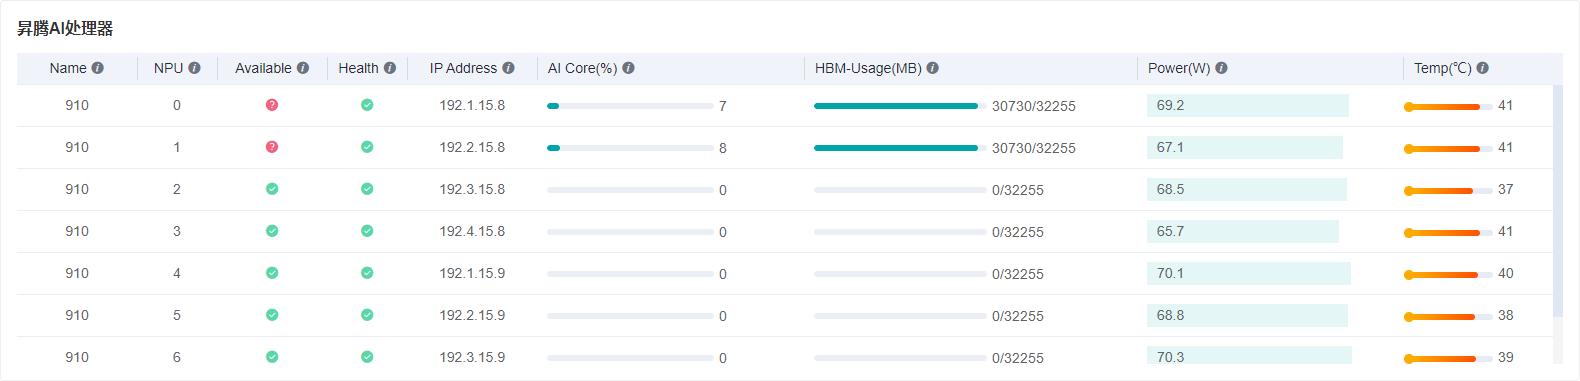
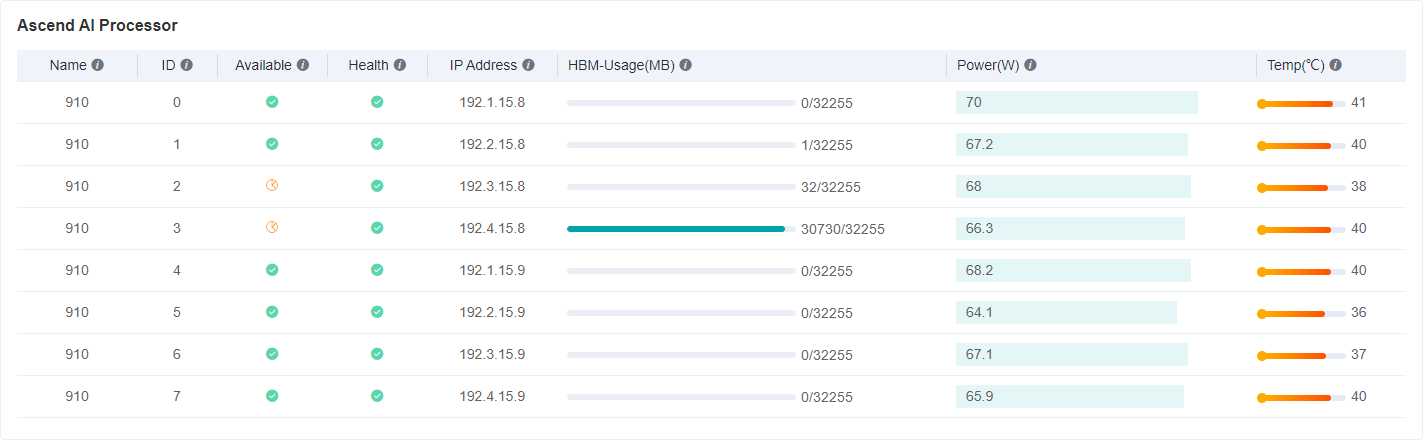
remove AI Core and update images

diff --git a/tutorials/source_zh_cn/advanced_use/system_metrics.md b/tutorials/source_zh_cn/advanced_use/system_metrics.md
@@ -27,15 +27,14 @@
 
 图1是一个表格，每一行展示了某一时刻各芯片的信息。其中每一列的指标如下：
 
-- **Name**: 芯片名称。
-- **NPU**: 芯片号，从`0`到`7`.
-- **Available**: 芯片是否空闲。
-- **Health**: 芯片健康指数。
-- **IP Address**: 芯片IP地址。
-- **AI Core(%)**: 芯片利用率。
-- **HBM-Usage(MB)**: 芯片已用的HBM内存。
-- **Power(W)**: 芯片功率。
-- **Temp(°C)**: 芯片温度。
+- **名称**: 芯片名称。
+- **编号**: 芯片编号，从`0`到`7`.
+- **是否空闲**: 芯片是否空闲。
+- **健康状态**: 芯片健康指数。
+- **IP地址**: 芯片IP地址。
+- **已用HBM内存(MB)**: 芯片已用的HBM内存。
+- **功率(W)**: 芯片功率。
+- **温度(°C)**: 芯片温度。
 
 > 目前芯片是否空闲的结果仅供参考。
 

diff --git a/tutorials/source_en/advanced_use/system_metrics.md b/tutorials/source_en/advanced_use/system_metrics.md
@@ -29,11 +29,10 @@ Figure 1: System metrics Ascend AI processor board
 Figure 1 is a table, each row shows the information of each NPU chip at a certain time. The metrics in each column are as follows:
 
 - **Name**: The name of the chip.
-- **NPU**: The chip number, from `0` to `7`.
+- **ID**: The chip ID, from `0` to `7`.
 - **Available**: Whether the chip is available.
 - **Health**: The chip health status.
 - **IP Address**: The chip IP address.
-- **AI Core(%)**: The chip utilization.
 - **HBM-Usage(MB)**: The chip used HBM memory.
 - **Power(W)**: The chip power.
 - **Temp(°C)**: The chip temperature.
